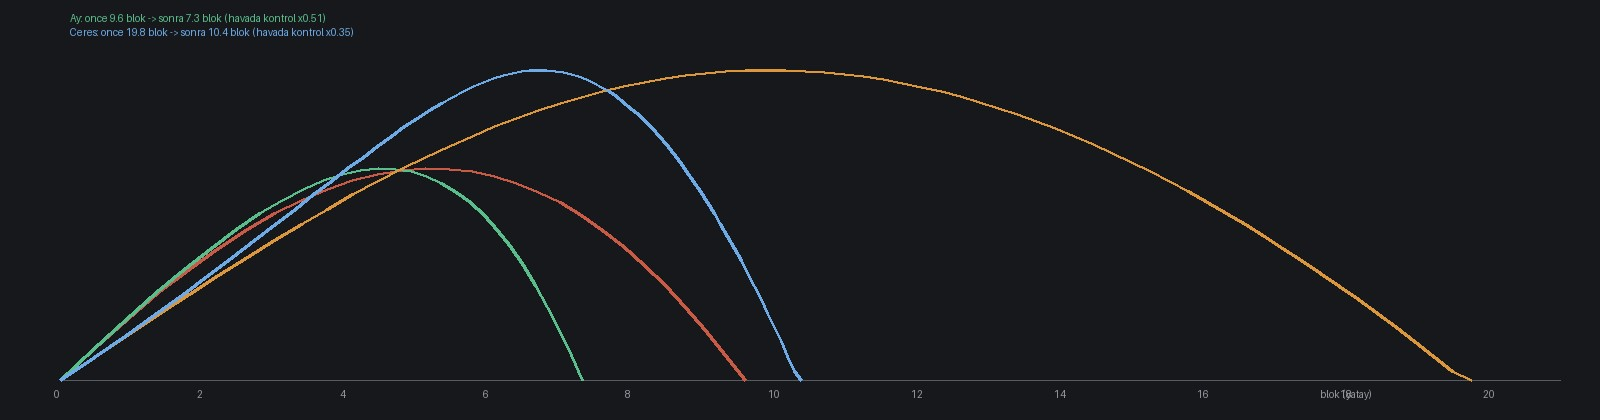
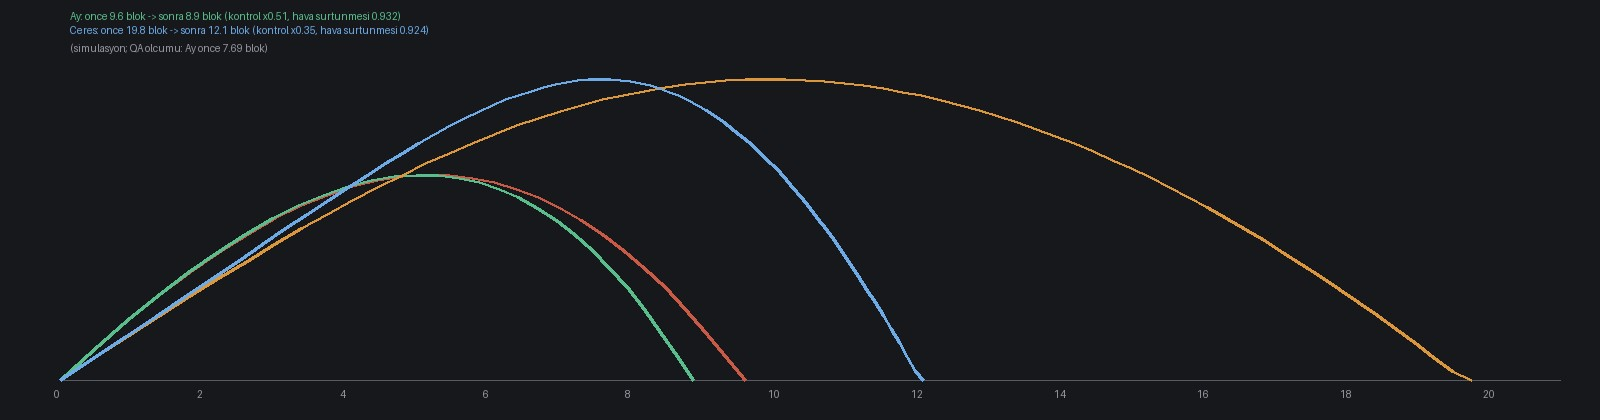
Low gravity tuning after hands-on measurements
Hops: with less steering the vanilla air drag ate the take-off speed (a
Moon sprint hop measured 5.2 blocks instead of the intended ~7). Part of
the air drag is now given back while airborne (half of what the
steering lost, fading out below a gravity factor of 0.15), so a Moon
hop keeps about nine tenths of its length while light worlds like Ceres
still get clearly shorter hops.
Elytra: lift follows the pressure ratio to the power 0.4 instead of the
square root (Mars about an eighth instead of a thirteenth); Earth and
denser air unchanged, still none in vacuum. Tests follow the new numbers.

diff --git a/src/testmod/java/com/pizzaparker07/spacebreaker/testmod/suit/LowGravityGameTests.java b/src/testmod/java/com/pizzaparker07/spacebreaker/testmod/suit/LowGravityGameTests.java
@@ -60,14 +60,14 @@ public final class LowGravityGameTests {
         helper.succeed();
     }
 
-    /** Blocks covered by one sprint jump, vanilla style, with the air push scaled by {@code control}. */
-    static double sprintJump(double f, double control) {
+    /** Blocks covered by one sprint jump, vanilla style, with the air push scaled by {@code control} and the given drag. */
+    static double sprintJump(double f, double control, double drag) {
         double vy = 0.42 * Math.pow(f, 0.25), y = 0, vx = 0.28 + 0.2, x = 0;
         for (int t = 0; t < 2000; t++) {
             y += vy;
             x += vx;
             vy = (vy - 0.08 * f) * 0.98;
-            vx = (vx + 0.026 * control) * 0.91;
+            vx = (vx + 0.026 * control) * drag;
             if (y <= 0) {
                 break;
             }
@@ -75,15 +75,29 @@ public final class LowGravityGameTests {
         return x;
     }
 
+    private static double before(double f) {
+        return sprintJump(f, 1.0, LowGravity.VANILLA_AIR_DRAG);
+    }
+
+    private static double after(double f) {
+        return sprintJump(f, LowGravity.airControl(f), LowGravity.airDrag(f));
+    }
+
     @GameTest(template = EMPTY)
     public static void lowGravityHopsMostlyKeepTheirTakeOff(GameTestHelper helper) {
         helper.assertTrue(LowGravity.airControl(1.0) == 1.0 && LowGravity.airControl(2.5) == 1.0, "full control on Earth and heavier worlds");
-        helper.assertTrue(Math.abs(LowGravity.airControl(MOON_F) - Math.sqrt(MOON_F)) < 1e-9, "about half on the Moon");
+        helper.assertTrue(LowGravity.airDrag(1.0) == LowGravity.VANILLA_AIR_DRAG && LowGravity.airDrag(0.0) == LowGravity.VANILLA_AIR_DRAG,
+                "vanilla drag on Earth and in microgravity");
+        helper.assertTrue(Math.abs(LowGravity.airControl(MOON_F) - Math.sqrt(MOON_F)) < 1e-9, "about half the steering on the Moon");
+        double moon = after(MOON_F) / before(MOON_F);
+        helper.assertTrue(moon > 0.85 && moon < 0.97, "a Moon sprint hop keeps about nine tenths of its length (" + moon + ")");
+        double moonReal = after(0.1652) / before(0.1652);
+        helper.assertTrue(moonReal > 0.8 && moonReal < 0.95, "also at realistic gravity (" + moonReal + ")");
         double ceresF = Math.pow(0.0289, 0.75);
         helper.assertTrue(LowGravity.airControl(ceresF) == LowGravity.MIN_AIR_CONTROL, "never below the floor on the lightest worlds");
-        double before = sprintJump(ceresF, 1.0), after = sprintJump(ceresF, LowGravity.airControl(ceresF));
-        helper.assertTrue(before > 18 && after < 12 && after > 9, "a Ceres sprint hop drops from about 20 to about 10 blocks (" + before + " -> " + after + ")");
-        helper.assertTrue(Math.abs(sprintJump(1.0, LowGravity.airControl(1.0)) - sprintJump(1.0, 1.0)) < 1e-9, "Earth jumps unchanged");
+        double ceres = after(ceresF) / before(ceresF);
+        helper.assertTrue(ceres > 0.5 && ceres < 0.7, "a Ceres hop gets clearly shorter (" + before(ceresF) + " -> " + after(ceresF) + ")");
+        helper.assertTrue(Math.abs(after(1.0) - before(1.0)) < 1e-9, "Earth jumps unchanged");
         helper.succeed();
     }
 
@@ -113,7 +127,7 @@ public final class LowGravityGameTests {
         helper.assertTrue(LowGravity.elytraLift(101.325) == 1.0 && LowGravity.elytraLift(9200) == 1.0, "full lift on Earth and in denser air");
         helper.assertTrue(LowGravity.elytraLift(146.7) == 1.0, "Titan's thick air carries wings fine");
         double mars = LowGravity.elytraLift(0.61);
-        helper.assertTrue(mars > 0.05 && mars < 0.1, "Mars's thin air gives under a tenth of the lift (" + mars + ")");
+        helper.assertTrue(mars > 0.11 && mars < 0.15, "Mars's thin air gives about an eighth of the lift (" + mars + ")");
         helper.succeed();
     }
 }

diff --git a/src/main/java/com/pizzaparker07/spacebreaker/client/suit/LowGravityControls.java b/src/main/java/com/pizzaparker07/spacebreaker/client/suit/LowGravityControls.java
@@ -11,10 +11,12 @@ import net.neoforged.api.distmarker.Dist;
 import net.neoforged.bus.api.SubscribeEvent;
 import net.neoforged.fml.common.EventBusSubscriber;
 import net.neoforged.neoforge.client.event.MovementInputUpdateEvent;
+import net.neoforged.neoforge.event.tick.PlayerTickEvent;
 
 /**
  * Less steering in the air on low-gravity worlds (see {@link LowGravity#airControl}): the walking keys push less
- * while airborne, so a long hop on the Moon mostly keeps the direction it was launched in. On the ground nothing
+ * while airborne and part of the air drag is given back ({@link LowGravity#airDrag}), so a long hop on the Moon keeps
+ * its take-off speed and mostly the direction it was launched in. On the ground nothing
  * changes; microgravity has its own controls ({@link ZeroGControls}) and a fuelled Maneuvering Unit steers itself.
  */
 @EventBusSubscriber(modid = Spacebreaker.MOD_ID, value = Dist.CLIENT)
@@ -22,18 +24,56 @@ public final class LowGravityControls {
     private LowGravityControls() {
     }
 
-    @SubscribeEvent
-    static void onInput(MovementInputUpdateEvent event) {
-        if (!(event.getEntity() instanceof LocalPlayer p) || p.onGround() || p.getAbilities().flying || p.isFallFlying()
-                || p.isPassenger() || p.isInWater() || p.isInLava() || p.onClimbable() || p.isSpectator()) {
-            return;
+    /** Whether the local player was airborne when this tick's movement started (vanilla picks the drag then). */
+    private static boolean airborneAtStart;
+
+    /** Gravity factor when the local player hops in low gravity on their own, or -1 when these rules do not apply. */
+    private static double lowGravityHop(LocalPlayer p) {
+        if (p.onGround() || p.getAbilities().flying || p.isFallFlying() || p.isPassenger() || p.isInWater() || p.isInLava()
+                || p.onClimbable() || p.isSpectator()) {
+            return -1;
         }
         double f = Gravity.factorFor(p);
         if (f >= 1.0 || ZeroG.microGravity(f)) {
-            return;
+            return -1;
         }
         SuitStatusPayload status = ClientSuitState.get(p.level().getGameTime());
         if (status != null && status.has(SuitStatusPayload.MMU) && status.mmuFuel() > 0) {
+            return -1;
+        }
+        return f;
+    }
+
+    @SubscribeEvent
+    static void beforeTick(PlayerTickEvent.Pre event) {
+        if (event.getEntity() instanceof LocalPlayer p) {
+            airborneAtStart = lowGravityHop(p) >= 0;
+        }
+    }
+
+    /** Gives back part of the vanilla air drag, so the take-off speed lasts (see {@link LowGravity#airDrag}). */
+    @SubscribeEvent
+    static void afterTick(PlayerTickEvent.Post event) {
+        if (!(event.getEntity() instanceof LocalPlayer p) || !airborneAtStart) {
+            return;
+        }
+        airborneAtStart = false;
+        double f = lowGravityHop(p);
+        if (f < 0) {
+            return;
+        }
+        double scale = LowGravity.airDrag(f) / LowGravity.VANILLA_AIR_DRAG;
+        var v = p.getDeltaMovement();
+        p.setDeltaMovement(v.x * scale, v.y, v.z * scale);
+    }
+
+    @SubscribeEvent
+    static void onInput(MovementInputUpdateEvent event) {
+        if (!(event.getEntity() instanceof LocalPlayer p)) {
+            return;
+        }
+        double f = lowGravityHop(p);
+        if (f < 0) {
             return;
         }
         float k = (float) LowGravity.airControl(f);

diff --git a/src/main/java/com/pizzaparker07/spacebreaker/content/suit/LowGravity.java b/src/main/java/com/pizzaparker07/spacebreaker/content/suit/LowGravity.java
@@ -52,6 +52,23 @@ public final class LowGravity {
         return f >= 1.0 ? 1.0 : Math.max(MIN_AIR_CONTROL, Math.sqrt(Math.max(0.0, f)));
     }
 
+    /** Vanilla's horizontal air drag per tick. */
+    public static final double VANILLA_AIR_DRAG = 0.91;
+
+    /**
+     * Horizontal air drag per tick while airborne at gravity factor {@code f}: with less steering the vanilla drag
+     * would eat the take-off speed, so part of it is given back (half of what the steering lost), fading out on the
+     * lightest worlds (below a factor of 0.15) so their hops stay short. Vanilla on Earth-like worlds and in
+     * microgravity (own controls).
+     */
+    public static double airDrag(double f) {
+        if (f >= 1.0 || ZeroG.microGravity(f)) {
+            return VANILLA_AIR_DRAG;
+        }
+        double relief = Math.min(1.0, f / 0.15);
+        return VANILLA_AIR_DRAG + (1.0 - VANILLA_AIR_DRAG) * 0.5 * (1.0 - airControl(f)) * relief;
+    }
+
     /**
      * Mining speed multiplier on top of vanilla's "not on the ground: five times slower" while floating in
      * microgravity: the penalty becomes two times, and none at all on a tether (the line gives something to brace
@@ -111,14 +128,14 @@ public final class LowGravity {
     public static final double VACUUM_KPA = 0.05;
 
     /**
-     * Share of an elytra's lift at ambient pressure {@code kpa}: none in vacuum, the square root of the pressure
-     * against Earth's in thin air (Mars, 0.6 kPa: under a tenth), full in Earth-like or denser air.
+     * Share of an elytra's lift at ambient pressure {@code kpa}: none in vacuum, the pressure against Earth's to the
+     * power 0.4 in thin air (Mars, 0.6 kPa: about an eighth), full in Earth-like or denser air.
      */
     public static double elytraLift(double kpa) {
         if (kpa < VACUUM_KPA) {
             return 0.0;
         }
-        return Math.min(1.0, Math.sqrt(kpa / 101.325));
+        return Math.min(1.0, Math.pow(kpa / 101.325, 0.4));
     }
 
     /** The local player's speed before this tick's movement, to tell the wings' share from a plain fall. */
